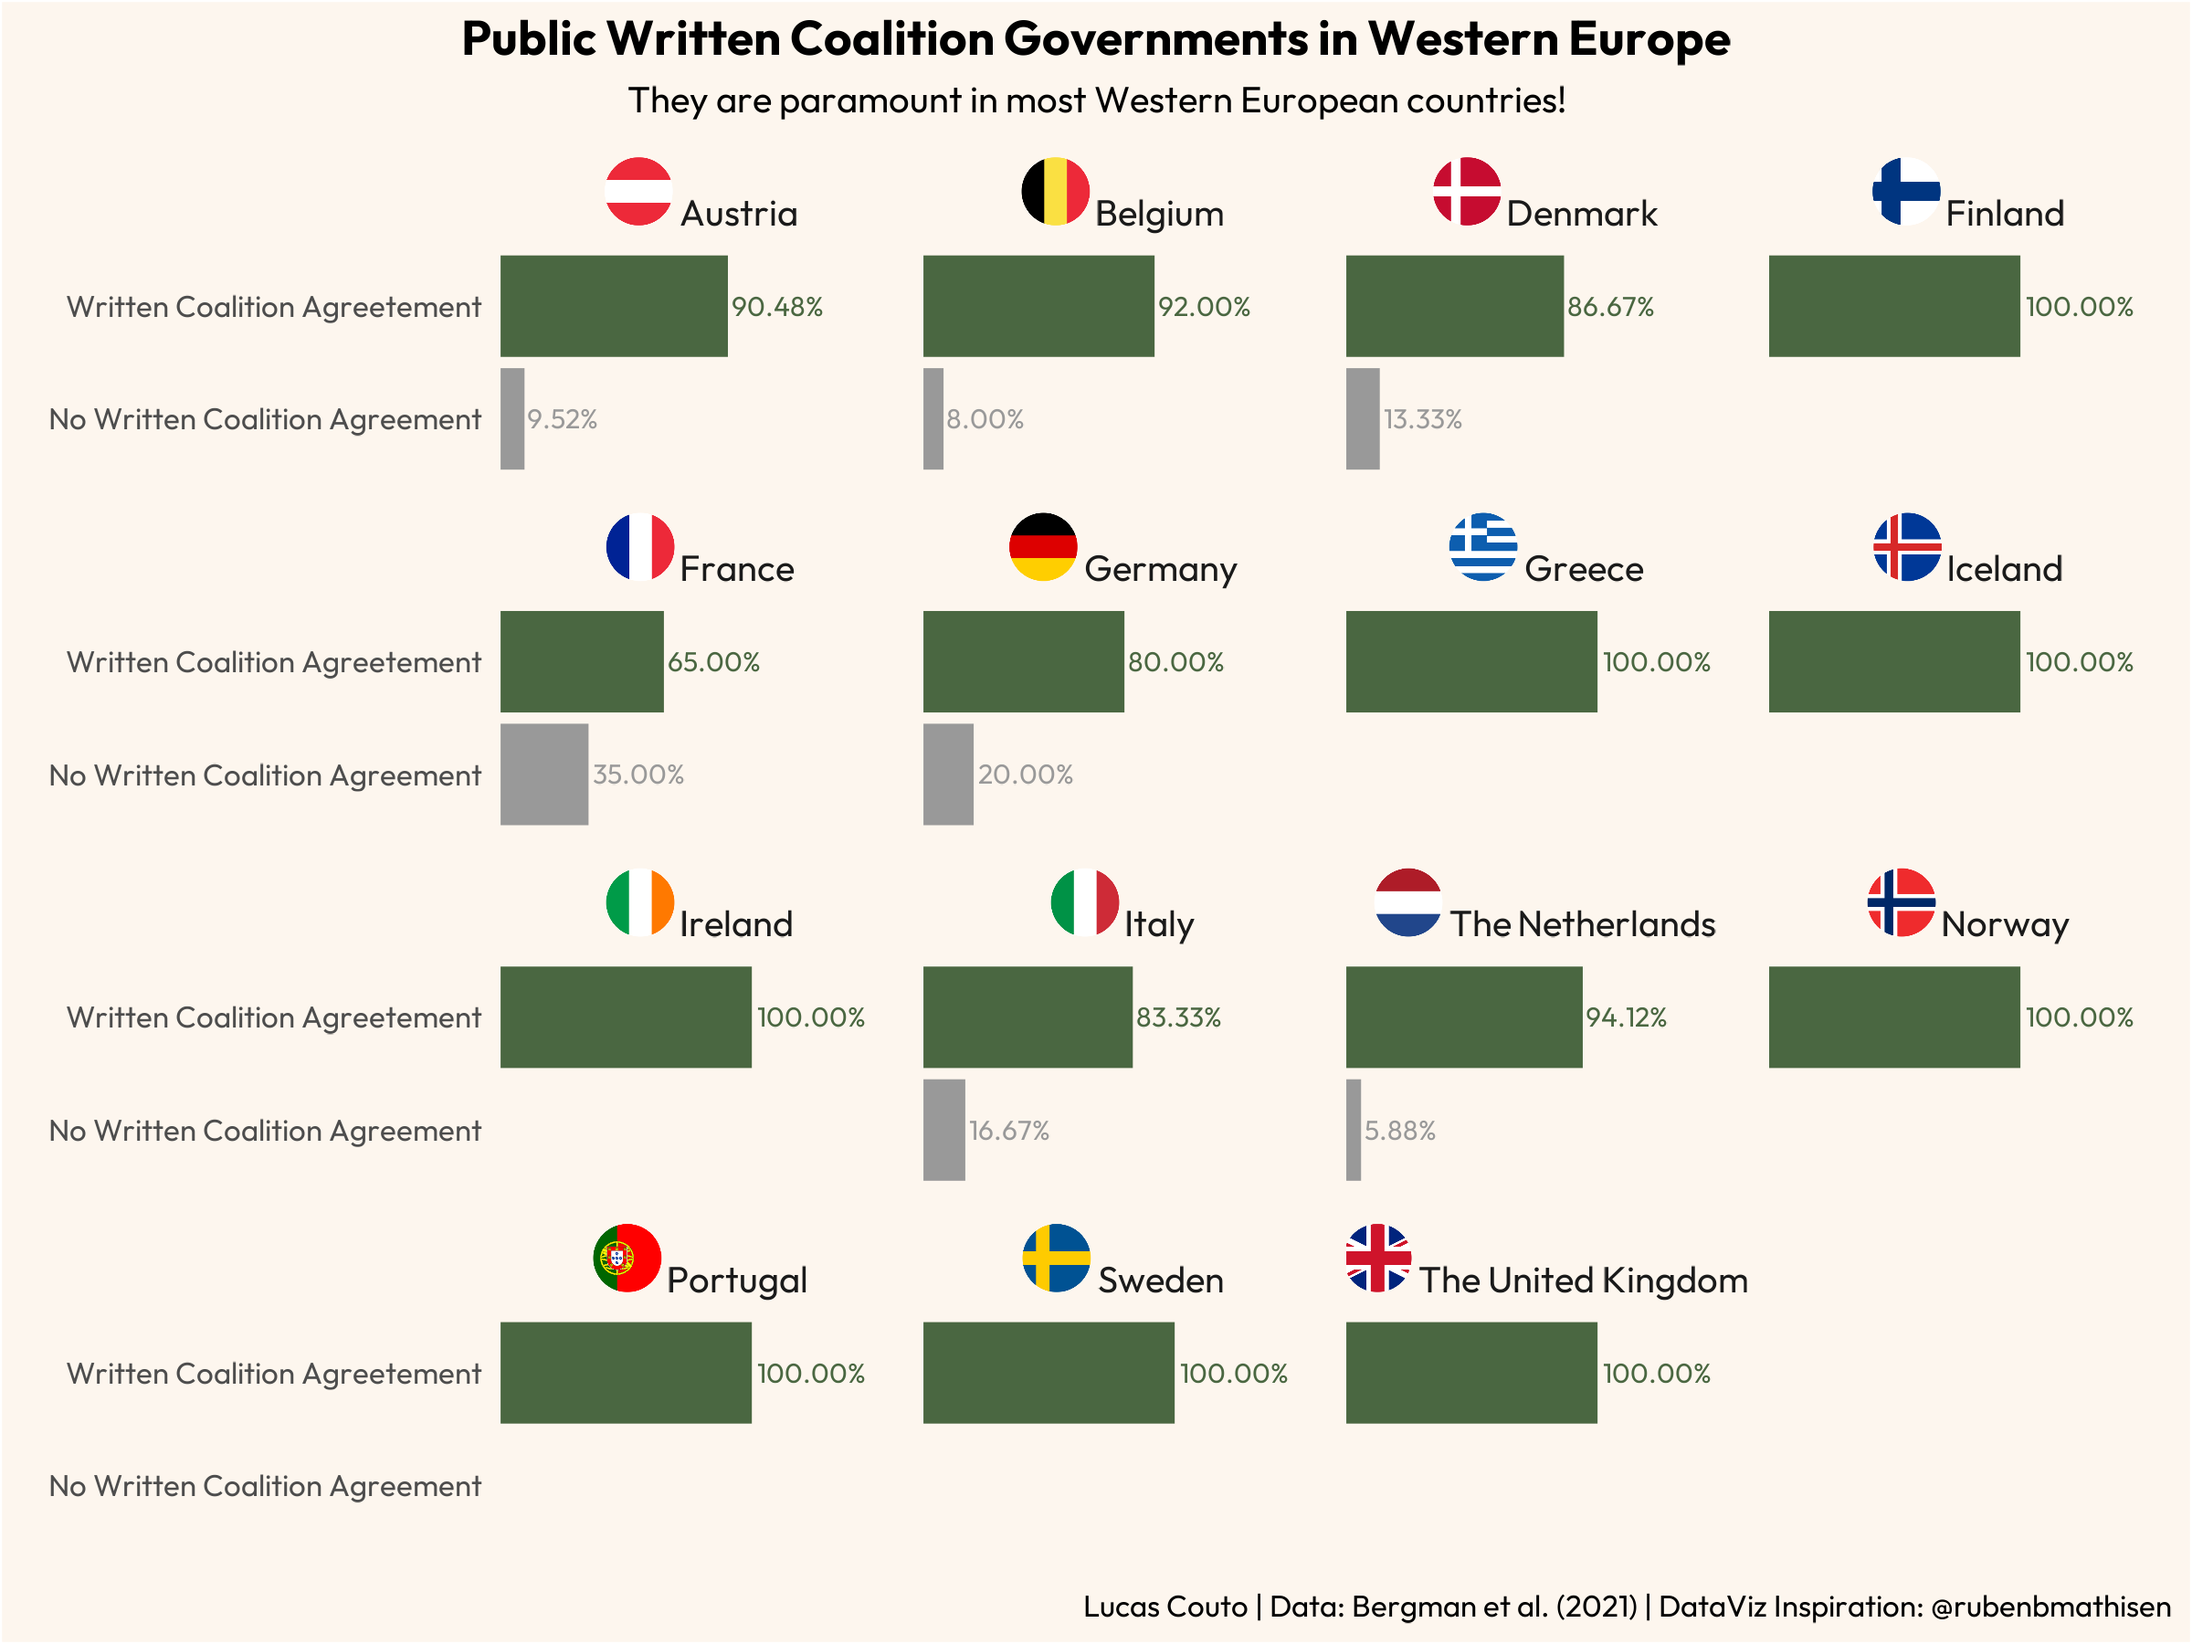
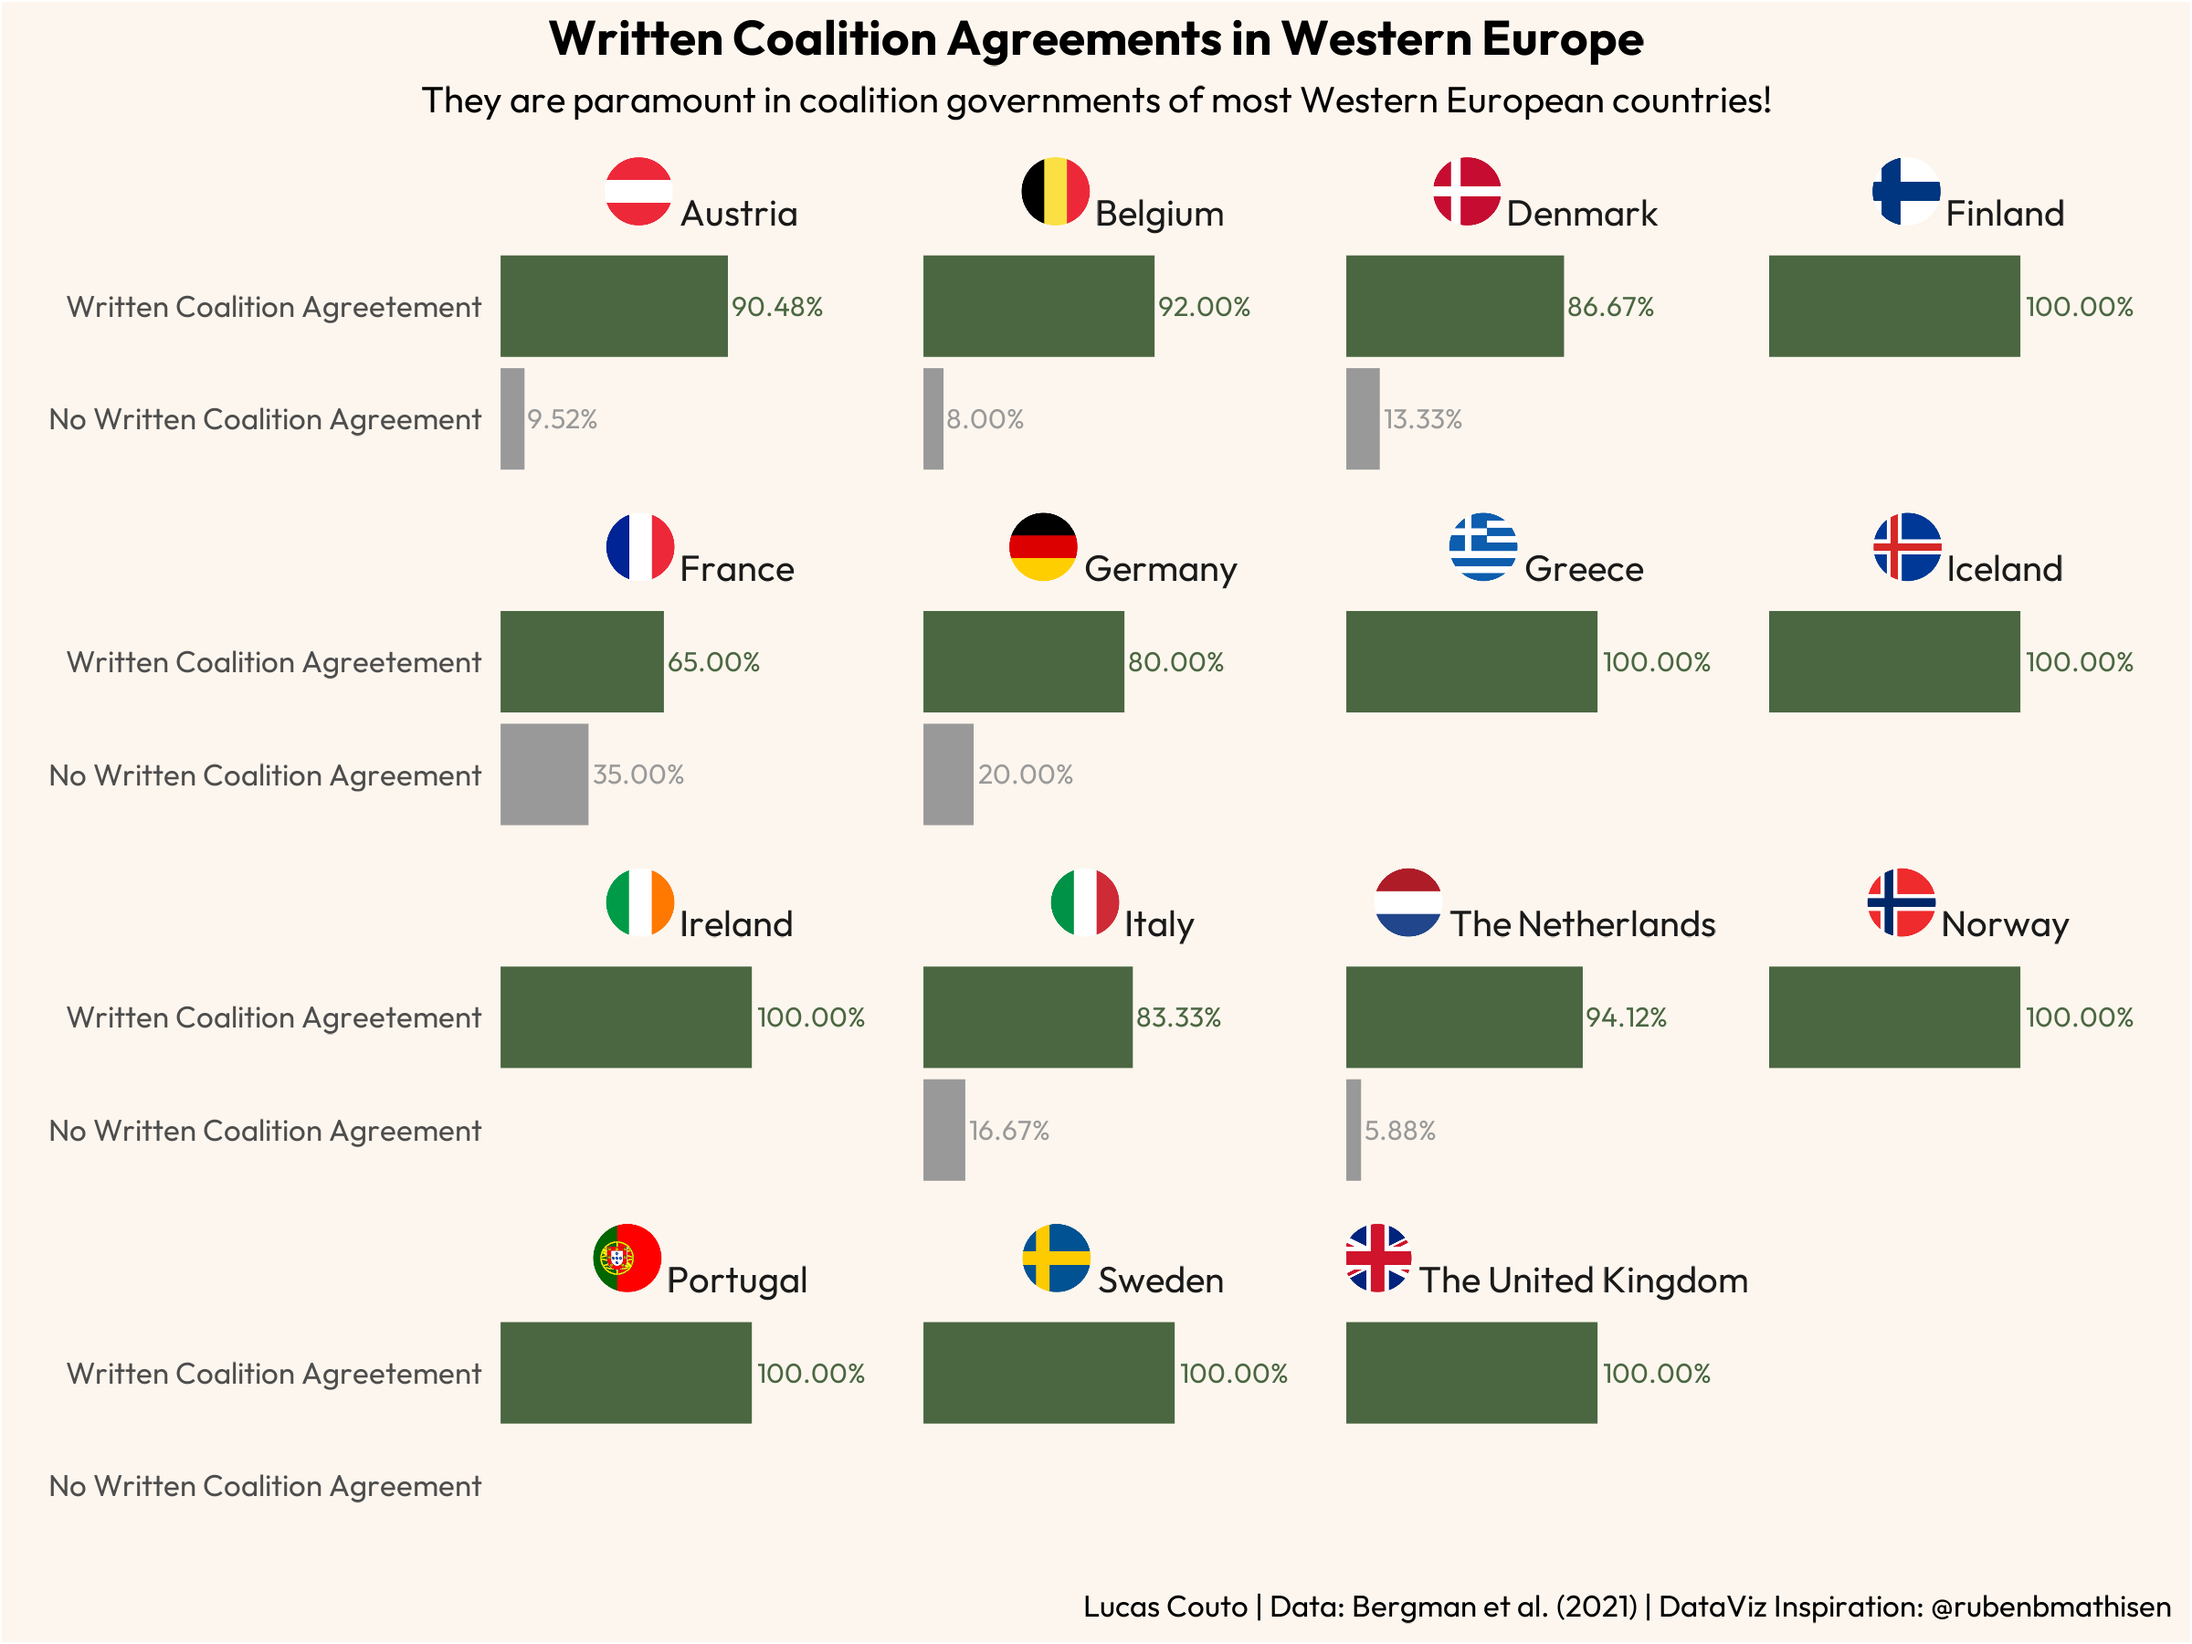
Correction

Changed region(s): [[0.1875, 0.0, 0.7812, 0.0933]]

diff --git a/_site/posts/new_blog_post/post.html b/_site/posts/new_blog_post/post.html
@@ -338,8 +338,8 @@ code span.wa { color: #60a0b0; font-weight: bold; font-style: italic; } /* Warni
 <span id="cb1-73"><a href="#cb1-73" aria-hidden="true" tabindex="-1"></a>          <span class="fu">scale_fill_manual</span>(<span class="at">values=</span><span class="fu">c</span>(<span class="st">"#999999"</span>, <span class="st">"#4a6741"</span>)) <span class="sc">+</span> <span class="fu">scale_colour_manual</span>(<span class="at">values=</span><span class="fu">c</span>(<span class="st">"#999999"</span>, <span class="st">"#4a6741"</span>)) <span class="sc">+</span></span>
 <span id="cb1-74"><a href="#cb1-74" aria-hidden="true" tabindex="-1"></a>          <span class="fu">facet_wrap</span>(<span class="sc">~</span>full_name) <span class="sc">+</span></span>
 <span id="cb1-75"><a href="#cb1-75" aria-hidden="true" tabindex="-1"></a>          <span class="fu">coord_flip</span>(<span class="at">expand=</span><span class="cn">FALSE</span>) <span class="sc">+</span></span>
-<span id="cb1-76"><a href="#cb1-76" aria-hidden="true" tabindex="-1"></a>          <span class="fu">labs</span>(<span class="at">title =</span> <span class="st">"Public Written Coalition Governments in Western Europe"</span>,</span>
-<span id="cb1-77"><a href="#cb1-77" aria-hidden="true" tabindex="-1"></a>               <span class="at">subtitle =</span> <span class="st">"They are paramount in most Western European countries!"</span>,</span>
+<span id="cb1-76"><a href="#cb1-76" aria-hidden="true" tabindex="-1"></a>          <span class="fu">labs</span>(<span class="at">title =</span> <span class="st">"Written Coalition Agreements in Western Europe"</span>,</span>
+<span id="cb1-77"><a href="#cb1-77" aria-hidden="true" tabindex="-1"></a>               <span class="at">subtitle =</span> <span class="st">"They are paramount in coalition governments of most Western European countries!"</span>,</span>
 <span id="cb1-78"><a href="#cb1-78" aria-hidden="true" tabindex="-1"></a>               <span class="at">x =</span> <span class="st">""</span>,</span>
 <span id="cb1-79"><a href="#cb1-79" aria-hidden="true" tabindex="-1"></a>               <span class="at">y =</span> <span class="st">""</span>,</span>
 <span id="cb1-80"><a href="#cb1-80" aria-hidden="true" tabindex="-1"></a>               <span class="at">caption =</span> <span class="st">"Lucas Couto | Data: Bergman et al. (2021) | DataViz Inspiration: @rubenbmathisen"</span>) <span class="sc">+</span> </span>

diff --git a/_site/archive.html b/_site/archive.html
@@ -184,7 +184,7 @@ Series: DataViz Portfolio
 <a href="./posts/DataViz/DataViz Series.html"> </a>
 </div>
 </div>
-<div class="quarto-post image-right" data-index="1" data-categories="Data Visualization,Coalition Agreements,Western Europe" data-listing-date-sort="1705374000000" data-listing-file-modified-sort="1705426736065" data-listing-reading-time-sort="16.95">
+<div class="quarto-post image-right" data-index="1" data-categories="Data Visualization,Coalition Agreements,Western Europe" data-listing-date-sort="1705374000000" data-listing-file-modified-sort="1705428256110" data-listing-reading-time-sort="16.96">
 <div class="body">
 <a href="./posts/new_blog_post/post.html">
 <h3 class="no-anchor listing-title">

diff --git a/_site/blog.html b/_site/blog.html
@@ -215,7 +215,7 @@ Series: DataViz Portfolio
 </a>
 </div>
 </div>
-<div class="quarto-post image-right" data-index="1" data-categories="Data Visualization,Coalition Agreements,Western Europe" data-listing-date-sort="1705374000000" data-listing-file-modified-sort="1705426736065" data-listing-reading-time-sort="16.95">
+<div class="quarto-post image-right" data-index="1" data-categories="Data Visualization,Coalition Agreements,Western Europe" data-listing-date-sort="1705374000000" data-listing-file-modified-sort="1705428339520" data-listing-reading-time-sort="16.96">
 <div class="body">
 <a href="./posts/new_blog_post/post.html">
 <h3 class="no-anchor listing-title">
